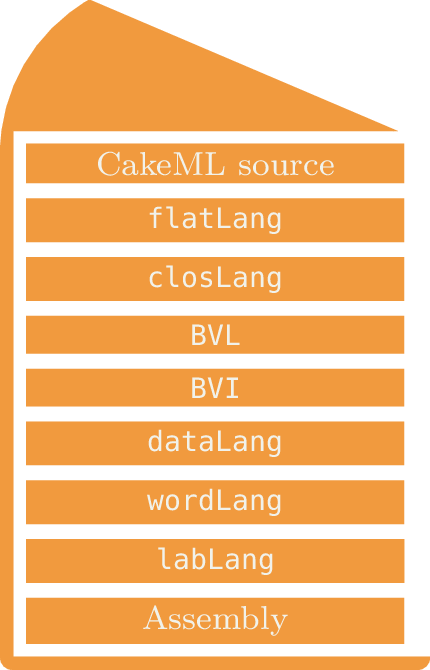
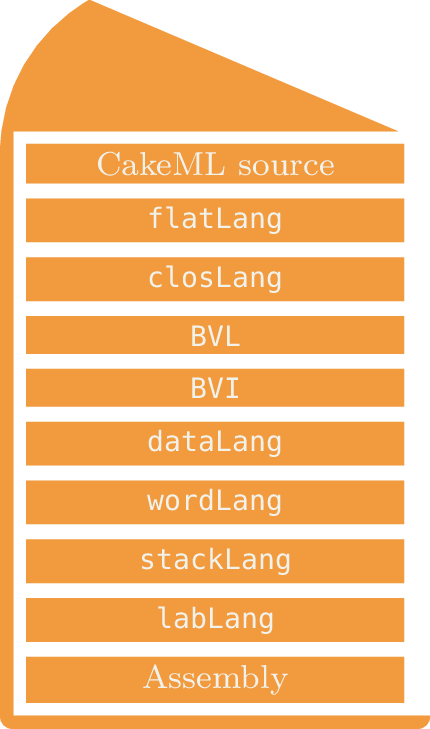
Add first batch of suggestions/comments from dry-run

diff --git a/src/Lic/data-cost.html b/src/Lic/data-cost.html
@@ -48,7 +48,7 @@
     <table class="rule">
       <tbody>
         <tr><td>$\text{machine_sem}\,(\text{compile}\,prog)\,\subseteq\\
-                 \text{extend_with_resource_limit}(\text{source_sem}\,prog)$</td></tr>
+          \text{extend_with_resource_limit}(\text{source_sem}\,prog)$</td></tr>
       </tbody>
     </table>
   </div>
@@ -79,7 +79,7 @@
     <table class="rule">
       <tbody>
         <tr><td>$\text{machine_sem}\,(\text{compile}\,prog)\subseteq\\
-                 \text{extend_with_resource_limit}(\text{source_sem}\,prog)$</td></tr>
+          \text{extend_with_resource_limit}(\text{source_sem}\,prog)$</td></tr>
       </tbody>
     </table>
   </div>
@@ -90,8 +90,20 @@
     <p>&#x1F44D;</p>
     <table class="rule">
       <tbody>
-        <tr><td>$\text{machine_sem}\,(\text{compile}\,prog)=\\
-                 \text{source_sem}\,prog$</td></tr>
+        <tr><td>$\text{machine_sem}\,(\text{compile}\,prog)=\text{source_sem}\,prog$</td></tr>
+      </tbody>
+    </table>
+  </div>
+</section>
+
+<section data-auto-animate>
+  <div class="r-vstack items-center">
+    <p>&#x1F4A1; &#x1F449; &#x1F44D;</p>
+    <table class="rule">
+      <tbody>
+        <tr><td>$\bbox[background-color: #f19a3e]{\text{is_safe}\,prog} \to \\
+          \text{machine_sem}\,(\text{compile}\,prog)=
+          \text{source_sem}\,prog$</td></tr>
       </tbody>
     </table>
   </div>
@@ -106,6 +118,11 @@
     <li class="fragment fade-up">Runs out of stack</li>
     <li class="fragment fade-up">Object exceeds representation limits</li>
   </ul>
+  <aside class="notes">j
+    <ul>
+      <li>An array which keeps track of its lenght on a header</li>
+    </ul>
+  </aside>
 </section>
 
 <section data-auto-animate>
@@ -117,17 +134,83 @@
     <img style="width: 30%;" src="Lic/il.png"/>
     <div class="r-vstack items-start" style="padding-left:20px">
       <div>
-        <i class="fas fa-arrow-up"></i> High level
+        <i class="fas fa-arrow-up"></i> High level (Tractable)
       </div>
       <div style="align-self:center;padding:30px 0 30px 0">
         <code>??</code>
       </div>
       <div>
-        <i class="fas fa-arrow-down"></i> Low level
+        <i class="fas fa-arrow-down"></i> Low level (Precise)
       </div>
     </div>
   </div>
+  <aside class="notes">
+    <ul>
+      <li>Tracktable the higher and precise the lower</li>
+    </ul>
+  </aside>
 </section>
+
+<section data-auto-animate>
+  <div class="r-hstack items-start">
+    <div class="r-vstack items-center">
+      <div data-id="il1"><code>CakeML</code></div>
+      <div data-id="il2"><code>flatLang</code></div>
+      <div data-id="il3"><code>closLang</code></div>
+      <div data-id="il4"><code>BVL</code></div>
+      <div data-id="il5"><code>BVI</code></div>
+      <div data-id="il6"><code>dataLang</code></div>
+      <div data-id="il7"><code>wordLang</code></div>
+      <div data-id="il8"><code>stackLang</code></div>
+      <div data-id="il9"><code>labLang</code></div>
+      <div data-id="il10"><code>Assembly</code></div>
+    </div>
+  </div>
+</section>
+
+<section data-auto-animate>
+  <div class="r-hstack items-start">
+    <div class="r-vstack items-center">
+      <div style="color:#f19a3e" data-id="il1"><code>CakeML</code></div>
+      <div style="color:#f19a3e" data-id="il2"><code>flatLang</code></div>
+      <div style="color:#f19a3e" data-id="il3"><code>closLang</code></div>
+      <div style="color:#f19a3e" data-id="il4"><code>BVL</code></div>
+      <div style="color:#f19a3e" data-id="il5"><code>BVI</code></div>
+      <div style="color:#f19a3e" data-id="il6"><code>dataLang</code></div>
+      <div data-id="il7"><code>wordLang</code></div>
+      <div data-id="il8"><code>stackLang</code></div>
+      <div data-id="il9"><code>labLang</code></div>
+      <div data-id="il10"><code>Assembly</code></div>
+    </div>
+  </div>
+</section>
+
+<section data-auto-animate>
+  <div class="r-vstack items-center">
+  <div class="r-hstack items-start">
+    <div data-id="il1"><code>CakeML</code></div>
+    <div style="margin:0 10pt 0 10pt"><code> = </code></div>
+    <div data-id="il2"><code>flatLang</code></div>
+    <div style="margin:0 10pt 0 10pt"><code> = </code></div>
+    <div data-id="il3"><code>closLang</code></div>
+    <div style="margin:0 10pt 0 10pt"><code> = </code></div>
+    <div data-id="il4"><code>BVL</code></div>
+    <div style="margin:0 10pt 0 10pt"><code> = </code></div>
+    <div data-id="il5"><code>BVI</code></div>
+    <div style="margin:0 10pt 0 10pt"><code> = </code></div>
+    <div data-id="il6"><code>dataLang</code></div>
+  </div>
+  <div class="r-vstack items-center">
+    <div>$\subseteq$</div>
+    <div data-id="il7"><code>wordLang</code></div>
+    <div data-id="il8"><code>stackLang</code></div>
+    <div data-id="il9"><code>labLang</code></div>
+    <div data-id="il10"><code>Assembly</code></div>
+  </div>
+  </div>
+</section>
+
+
 
 <section>
   <h3><code>dataLang</code></h3>
@@ -136,40 +219,89 @@
     <li class="fragment fade-up">Imperative</li>
     <li class="fragment fade-up">Abstract values</li>
     <li class="fragment fade-up">Stateful storage</li>
-    <li class="fragment fade-up">An explicit call-stack</li>
+    <li class="fragment fade-up">An explicit call-stack
+      <span class=fragment style="color:#f19a3e;">(unlike languages above)</span></li>
   </ul>
 </section>
 
 <section data-auto-animate>
   <pre><code class="hljs haskell" data-trim>
     FOLDL f e [] = e
-    FOLDL f e (x::l) = FOLDL f (f e x) l
+    FOLDL f e (x::xs) = FOLDL f (f e x) xs
   </code></pre>
   <hr/>
-  <pre><code class="hljs python" data-trim data-line-numbers="|1|2-4|6-8|10-12">
+  <pre><code class="hljs python" data-trim data-line-numbers>
     foldl [0; 1; 2] = # FOLDL (0=l) (1=e) (2=f)
       # LENGTH l = 0?
       do 4 :≡ (TagLenEq 0 0,[0],NONE);
          if_var 4 (return 1) # Nil case, return e
            # Cons case
-           do 6 :≡ (ElemAt 0,[0],NONE);  # x
-              7 :≡ (ElemAt 1,[0],NONE);  # l
+           do 6 :≡ (ElemAt 0,[0],NONE);  # head
+              7 :≡ (ElemAt 1,[0],NONE);  # tail
               ...
               # f x e
               call (18,⦕ 2; 7 ⦖) NONE [6; 1; 2; 15] NONE;
               tailcall_foldl [7; 18; 2]
   </code></pre>
+  <aside class="notes">
+    <ul>
+      <li>
+        dataLang can be displayed using a monading representation
+      </li>
+      <li>
+        Funtion names are preserved as appropiately named constants
+      </li>
+      <li>
+        Varibles in data lang are numeric thus to better show the similarity
+        we replace them with a more familiar notation
+      </li>
+    </ul>
+  </aside>
 </section>
+
+<section data-auto-animate>
+  <pre><code class="hljs haskell" data-trim>
+    FOLDL f e [] = e
+    FOLDL f e (x::xs) = FOLDL f (f e x) xs
+  </code></pre>
+  <hr/>
+  <pre><code class="hljs python" data-trim data-line-numbers="|1|2-4|6-8|10-12">
+    foldl [l; e; f] =
+      # LENGTH l = 0?
+      do isNil :≡ (TagLenEq 0 0,[l],NONE);
+         if_var isNil (return 1) # Nil case, return e
+           # Cons case
+           do x  :≡ (ElemAt 0,[l],NONE);  # head
+              xs :≡ (ElemAt 1,[l],NONE);  # tail
+              ...
+              # f x e
+              call (e1,⦕ f; xs ⦖) NONE [x; e; f] NONE;
+              tailcall_foldl [xs; e1; f]
+  </code></pre>
+  <aside class="notes">
+    <ul>
+      <li>Arguments are the same, just in reverse</li>
+      <li>First a case distinction is performed</li>
+      <li>On the nil case the base value is returned </li>
+      <li>For the cons case, head and tail are obtaines
+        and the new base value is computed by calling
+        function f with the corresponding arguments
+      </li>
+      <li>Finally a tail recursive call is performed</li>
+    </ul>
+  </aside>
+</section>
+
 
 <section>
   <div class="r-hstack items-center">
-      <pre><code class="hljs haskell" data-trim>
+    <pre><code class="hljs haskell" data-trim>
          v = Number  int
            | Word64  word64
            | Block   ts tag (v list)  -- ts = tag = num
            | CodePtr num
            | RefPtr  num
-      </code></pre>
+    </code></pre>
   </div>
 </section>
 
@@ -281,25 +413,25 @@
   <div style="margin-top:1em">
     <hr/>
     <p style="text-align:left">Where:</p>
-      <ul>
-        <li>(<code>vs</code>) is a list of <code>v</code> values</li>
-        <li>(<code>refs</code>) is a mapping from numbers to values</li>
-        <li>(seen) is a set of timestamps we have already seen</li>
-      </ul>
+    <ul>
+      <li>(<code>vs</code>) is a list of <code>v</code> values</li>
+      <li>(<code>refs</code>) is a mapping from numbers to values</li>
+      <li>(seen) is a set of timestamps we have already seen</li>
+    </ul>
   </div>
 </section>
 
 
 <section>
-    <pre><code class="hljs haskell" data-trim data-line-numbers="3">
+  <pre><code class="hljs haskell" data-trim data-line-numbers="3">
       v = Number  int
         | Word64  word64
         | Block   ts tag (v list) -- ts = tag = num
         | CodePtr num
         | RefPtr  num
-    </code></pre>
-    <hr/>
-    <pre><code class="hljs haskell" data-trim>
+  </code></pre>
+  <hr/>
+  <pre><code class="hljs haskell" data-trim>
     Block 8 cons_tag [Number 1;
       Block 7 cons_tag [Number 2;
         Block 6 cons_tag [Number 3,
@@ -307,7 +439,7 @@
         ]
       ]
     ]
-    </code></pre>
+  </code></pre>
 </section>
 
 <section>
@@ -369,7 +501,7 @@
     <table class="rule">
       <tbody>
         <tr><td>$\text{machine_sem}\,(\text{compile}\,prog)\,\subseteq\\
-                 \text{extend_with_resource_limit}(\text{source_sem}\,prog)$</td></tr>
+          \text{extend_with_resource_limit}(\text{source_sem}\,prog)$</td></tr>
       </tbody>
     </table>
   </div>
@@ -380,7 +512,7 @@
     <table class="rule">
       <tbody>
         <tr><td>$\text{data_safe}\,(\text{initial_state})\,(\text{to_data}\,prog) \to \\
-                 \text{machine_sem}\,(\text{compile}\,prog)=\text{source_sem}\,prog$</td></tr>
+          \text{machine_sem}\,(\text{compile}\,prog)=\text{source_sem}\,prog$</td></tr>
       </tbody>
     </table>
   </div>

diff --git a/src/Lic/choreographies.html b/src/Lic/choreographies.html
@@ -3,8 +3,14 @@
   <hr/>
 </section>
 
-<section data-background="https://media.giphy.com/media/ckwE6EJuhyRYtKCAvI/giphy.gif">
+<section data-auto-animate data-background="https://media.giphy.com/media/ckwE6EJuhyRYtKCAvI/giphy.gif">
   <div style="background-color: rgba(0, 0, 0, 0.6); color: #fff; padding: 10px;">
+    <h2> What is a choreography?</h2>
+  </div>
+</section>
+
+<section data-auto-animate>
+  <div style="background-color: rgba(0, 0, 0, 0.4); padding: 10px;">
     <h2> What is a choreography?</h2>
   </div>
   <aside class="notes">

diff --git a/dist/theme/personal.css b/dist/theme/personal.css
@@ -19,6 +19,7 @@
  * GLOBAL STYLES
  *********************************************/
 :root {
+  --cake: #f19a3e
   --background-color: #343330;
   --main-font-size: 42px;
   --main-color: #f1f2eb;

diff --git a/src/Lic/il.tex b/src/Lic/il.tex
@@ -24,7 +24,7 @@ thick,inner sep=2pt]
   \node[BLOCK] (data)  [below= of bvi]   {\color{wt}{\footnotesize \texttt{dataLang}}};
   \node[BLOCK] (word)  [below= of data]  {\color{wt}{\footnotesize \texttt{wordLang}}};
   \node[BLOCK] (stack) [below= of word]  {\color{wt}{\footnotesize \texttt{stackLang}}};
-  \node[BLOCK] (lab)   [below= of word]  {\color{wt}{\footnotesize \texttt{labLang}}};
+  \node[BLOCK] (lab)   [below= of stack] {\color{wt}{\footnotesize \texttt{labLang}}};
   \node[BLOCK] (asm)   [below= of lab]   {\color{wt}{\footnotesize Assembly}};
 
   \draw[fill=cake,draw=cake]
